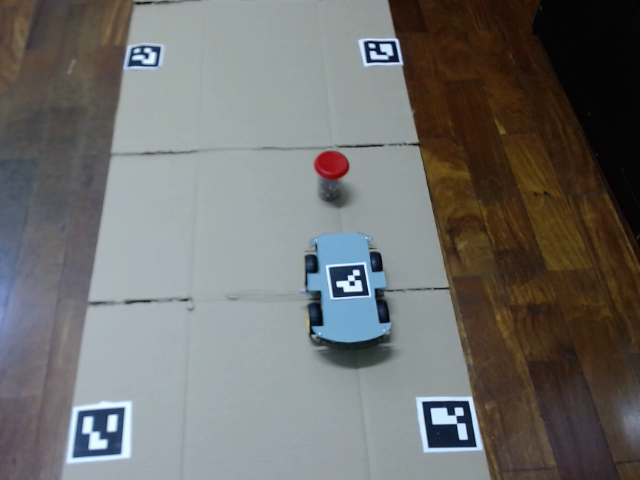
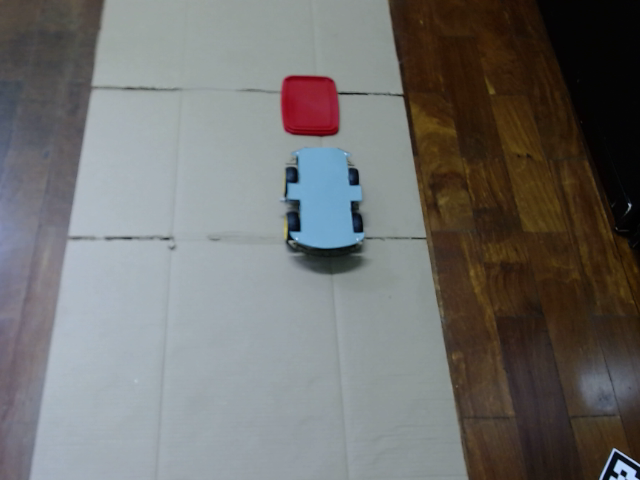
Novos testes

diff --git a/Modules/module_vision.py b/Modules/module_vision.py
@@ -24,29 +24,27 @@ def undistortFrame(frame, mtx, dist, verbose=False):
     return frame_undistorted
 
 
-def robotDetecting(frame):
+def robotDetecting(frame, config_object):
     hsv_frame = cv2.cvtColor(frame, cv2.COLOR_BGR2HSV)
-    low_green = np.array([99, 99, 190])
-    high_green = np.array([130, 255, 255])
+    uh = int(config_object['upperh'])
+    us = int(config_object['uppers'])
+    uv = int(config_object['upperv'])
+    lh = int(config_object['lowerh'])
+    ls = int(config_object['lowers'])
+    lv = int(config_object['lowerv'])
+    low_green = np.array([lh, ls, lv])
+    high_green = np.array([uh, us, uv])
     green_mask = cv2.inRange(hsv_frame, low_green, high_green)
-    img_robot = cv2.bitwise_and(frame, frame, mask=green_mask)
-    img_gray_robot = cv2.cvtColor(img_robot, cv2.COLOR_BGR2GRAY)
+    frame_robot = cv2.bitwise_and(frame, frame, mask=green_mask)
+    frame_gray_robot = cv2.cvtColor(frame_robot, cv2.COLOR_BGR2GRAY)
     # convert image to grayscale image
-    blurred = cv2.GaussianBlur(img_gray_robot, (5, 5), 0)
+    blurred = cv2.GaussianBlur(frame_gray_robot, (5, 5), 0)
     thresh = cv2.threshold(blurred, 60, 255, cv2.THRESH_BINARY)[1]
     # find contours in the thresholded image
     cnts = cv2.findContours(thresh.copy(), cv2.RETR_EXTERNAL, cv2.CHAIN_APPROX_SIMPLE)
     cnts = imutils.grab_contours(cnts)
     cX_robot = 0
     cY_robot = 0
-    robot_position = {
-        'center': (cX_robot, cY_robot),
-        'top': (cX_robot, cY_robot + 10),
-        'button': (cX_robot, cY_robot - 10),
-        'left': (cX_robot - 6, cY_robot),
-        'right': (cX_robot + 6, cY_robot),
-    }
-    # left, right, top , button
     # loop over the contours
     for c in cnts:
         # compute the center of the contour
@@ -55,33 +53,65 @@ def robotDetecting(frame):
             cX_robot = int(M["m10"] / M["m00"])
             cY_robot = int(M["m01"] / M["m00"])
             # draw the contour and center of the shape on the image
-            cv2.drawContours(img_robot, [c], -1, (0, 255, 0), 2)
-            cv2.circle(img_robot, (cX_robot, cY_robot), 8, (255, 255, 255), -1)
-            cv2.putText(img_robot, "Robot", (cX_robot - 20, cY_robot - 20),
+            cv2.drawContours(frame_robot, [c], -1, (0, 255, 0), 2)
+            cv2.circle(frame_robot, (cX_robot, cY_robot), 8, (255, 255, 255), -1)
+            cv2.putText(frame_robot, "Robot", (cX_robot - 20, cY_robot - 20),
                         cv2.FONT_HERSHEY_SIMPLEX, 1, (255, 255, 255), 2)
         # show the image
         # plt.imshow(img_green)
         # plt.show()
-    cv2.imshow("Robot", img_robot)
+    cv2.imshow("Robot", frame_robot)
     print("Robot -> X: ", cX_robot, " Y: ", cY_robot)
+    # left, right, top , button
+    robot_position = {
+        'center': (cX_robot, cY_robot),
+        'top': (cX_robot, cY_robot + 10),
+        'button': (cX_robot, cY_robot - 10),
+        'left': (cX_robot - 6, cY_robot),
+        'right': (cX_robot + 6, cY_robot),
+    }
     return robot_position
 
 
-def obstacleDetecting(frame):
+def obstacleDetecting(frame, config_object):
     hsv_frame = cv2.cvtColor(frame, cv2.COLOR_BGR2HSV)
-    low_red = np.array([150, 150, 60])
-    high_red = np.array([220, 255, 255])
+    uh = int(config_object['upperh'])
+    us = int(config_object['uppers'])
+    uv = int(config_object['upperv'])
+    lh = int(config_object['lowerh'])
+    ls = int(config_object['lowers'])
+    lv = int(config_object['lowerv'])
+    low_red = np.array([lh, ls, lv])
+    high_red = np.array([uh, us, uv])
     red_mask = cv2.inRange(hsv_frame, low_red, high_red)
-    img_obstacle = cv2.bitwise_and(frame, frame, mask=red_mask)
-    img_gray_obstacle = cv2.cvtColor(img_obstacle, cv2.COLOR_BGR2GRAY)
+    frame_obstacle = cv2.bitwise_and(frame, frame, mask=red_mask)
+    frame_gray_obstacle = cv2.cvtColor(frame_obstacle, cv2.COLOR_BGR2GRAY)
     # convert image to grayscale image
-    blurred = cv2.GaussianBlur(img_gray_obstacle, (5, 5), 0)
+    blurred = cv2.GaussianBlur(frame_gray_obstacle, (5, 5), 0)
     thresh = cv2.threshold(blurred, 60, 255, cv2.THRESH_BINARY)[1]
     # find contours in the thresholded image
     cnts = cv2.findContours(thresh.copy(), cv2.RETR_EXTERNAL, cv2.CHAIN_APPROX_SIMPLE)
     cnts = imutils.grab_contours(cnts)
     cX_obstacle = 0
     cY_obstacle = 0
+    # left, right, top , button
+    # loop over the contours
+    for c in cnts:
+        # compute the center of the contour
+        M = cv2.moments(c)
+        if M["m00"] > 0:
+            cX_obstacle = int(M["m10"] / M["m00"])
+            cY_obstacle = int(M["m01"] / M["m00"])
+            # draw the contour and center of the shape on the image
+            cv2.drawContours(frame_obstacle, [c], -1, (0, 255, 0), 2)
+            cv2.circle(frame_obstacle, (cX_obstacle, cY_obstacle), 8, (255, 255, 255), -1)
+            cv2.putText(frame_obstacle, "Obstacle", (cX_obstacle - 20, cY_obstacle - 20),
+                        cv2.FONT_HERSHEY_SIMPLEX, 1, (255, 255, 255), 2)
+        # show the image
+        # plt.imshow(img_green)
+        # plt.show()
+    cv2.imshow("Obstacle", frame_obstacle)
+    print("Obstacle -> X: ", cX_obstacle, " Y: ", cY_obstacle)
     obstacle_position = {
         'center': (cX_obstacle, cY_obstacle),
         'top': (cX_obstacle, cY_obstacle + 5),
@@ -90,23 +120,6 @@ def obstacleDetecting(frame):
         'right': (cX_obstacle + 5, cY_obstacle),
     }
     # left, right, top , button
-    # loop over the contours
-    for c in cnts:
-        # compute the center of the contour
-        M = cv2.moments(c)
-        if M["m00"] > 0:
-            cX_robot = int(M["m10"] / M["m00"])
-            cY_robot = int(M["m01"] / M["m00"])
-            # draw the contour and center of the shape on the image
-            cv2.drawContours(img_obstacle, [c], -1, (0, 255, 0), 2)
-            cv2.circle(img_obstacle, (cX_robot, cY_robot), 8, (255, 255, 255), -1)
-            cv2.putText(img_obstacle, "Obstacle", (cX_robot - 20, cY_robot - 20),
-                        cv2.FONT_HERSHEY_SIMPLEX, 1, (255, 255, 255), 2)
-        # show the image
-        # plt.imshow(img_green)
-        # plt.show()
-    cv2.imshow("Obstacle", img_obstacle)
-    print("Obstacle - X: ", cX_robot, " Y: ", cY_robot)
     return obstacle_position
 
 

diff --git a/main.py b/main.py
@@ -2,14 +2,19 @@
 import socket
 import os
 import time
-from dotenv import load_dotenv
 import cv2
+import math
+import matplotlib.pyplot as plt
+from configparser import ConfigParser
 from Modules import module_calibrate_camera, module_vision, module_calibrate_color
 
-load_dotenv(verbose=True)
-HOST = os.getenv("HOST")
-PORT = int(os.getenv("PORT"))
-DEVICE_NUMBER = int(os.getenv("DEVICE_NUMBER"))
+#Read config.ini file
+config_object = ConfigParser()
+config_object.read("config.ini")
+system = config_object["SYSTEM"]
+HOST = system['HOST']
+PORT = int(system['PORT'])
+DEVICE_NUMBER = int(system['DEVICE_NUMBER'])
 
 
 def init_system():
@@ -36,9 +41,29 @@ def init_system():
             loop = True
             while loop:
                 _, frame = cap.read()
-                robot_position = module_vision.robotDetecting(frame)
-                obstacleDetecting = module_vision.obstacleDetecting(frame);
-                scenery_points = module_vision.arucoDetecting(frame)
+                robot_position = module_vision.robotDetecting(frame, config_object["ROBOT_COLOR"])
+                obstacle_position = module_vision.obstacleDetecting(frame, config_object["OBSTACLE_COLOR"])
+                cv2.line(frame, robot_position['center'], obstacle_position['center'], (0, 255, 0), 2)
+                cv2.imshow("Cenario", frame)
+                #scenery_points = module_vision.arucoDetecting(frame)
+                # Calculando a distância
+                dist_robot_obstacle = math.sqrt((robot_position['center'][0] - obstacle_position['center'][0]) ** 2) +\
+                         math.sqrt((robot_position['center'][1] - obstacle_position['center'][1]) ** 2)
+                print('A distância entre esses dois pontos é de:', dist_robot_obstacle, 'unidades de medida')
+                # x = (robot_position['center'][0], obstacle_position['center'][0])
+                # y = (robot_position['center'][1], obstacle_position['center'][1])
+                # plotting the points
+                # plt.plot(x, y, color='green', linestyle='dashed', linewidth=3, marker='o', markerfacecolor='blue', markersize=12)
+                # plt.plot(x, y)
+                # naming the x axis
+                # plt.xlabel('x - axis')
+                # naming the y axis
+                # plt.ylabel('y - axis')
+                # giving a title to my graph
+                # plt.title('Distance between the robot and the obstacle')
+                # function to show the plot
+                # plt.show()
+
                 #receivedData = newSocket.recv(1024).decode('utf-8')
                 #print(">>Receive Data : ", receivedData)
                 #if receivedData == "exit":
@@ -75,12 +100,17 @@ def print_menuCentral():  ## Your menu design here
     print(24 * "-", "CENTRAL CONTROL SYSTEM", 24 * "-")
     print("1. START CENTRAL CONTROL")
     print("2. CAMERA CALIBRATION")
-    print("3. COLOR CALIBRATION")
-    print("4. EXIT")
+    print("3. ROBOT COLOR CALIBRATION")
+    print("4. OBSTACLE COLOR CALIBRATION")
+    print("5. EXIT")
     print(71 * "-")
 
 
 def main():
+    #dist_robot_obstacle = math.sqrt((308 - 297) ** 2) + math.sqrt((177 - 103) ** 2)
+    #catX = 308 - 297
+    #catY = 177 - 103
+    #print(dist_robot_obstacle)
     while 1:
         print_menuCentral()
         try:
@@ -95,9 +125,12 @@ def main():
             print(">> Starting Camera Calibration")
             module_calibrate_camera.CalibrationCamera()
         if choice == 3:
-            print(">> Starting Color Calibration")
-            module_calibrate_color.CalibrationColor()
-        elif choice == 4:
+            print(">> Starting Robot Color Calibration")
+            module_calibrate_color.CalibrationColor('robot')
+        if choice == 4:
+            print(">> Starting Obstacle Color Calibration")
+            module_calibrate_color.CalibrationColor('obstacle')
+        elif choice == 5:
             print(">> Exit")
             quit()
         else:

diff --git a/Modules/module_calibrate_color.py b/Modules/module_calibrate_color.py
@@ -1,10 +1,11 @@
 import numpy as np
 import cv2 as cv
 import time
+from configparser import ConfigParser
 
 
 class CalibrationColor:
-    def __init__(self):
+    def __init__(self, object):
         cam = cv.VideoCapture(0)
         if cam.isOpened():
             cam.set(cv.CAP_PROP_FRAME_WIDTH, 640)
@@ -12,9 +13,6 @@ class CalibrationColor:
             width = cam.get(cv.CAP_PROP_FRAME_WIDTH)  # float
             height = cam.get(cv.CAP_PROP_FRAME_HEIGHT)  # float
             # print(cv2.CAP_PROP_FRAME_WIDTH, cv2.CAP_PROP_FRAME_HEIGHT) # 3, 4
-            print('width, height:', width, height)
-            fps = cam.get(cv.CAP_PROP_FPS)
-            print('fps:', fps)  # float
         cv.namedWindow("Image")
         while True:
             ret, frame = cam.read()
@@ -34,23 +32,32 @@ class CalibrationColor:
                 print("Image Written!")
                 break
         cam.release()
-        cv.destroyAllWindows()
         img = cv.imread('image.png', cv.IMREAD_COLOR)
         img = cv.medianBlur(img, 5)
         # Convert BGR to HSV
+        config_object = ConfigParser()
+        config_object.read("config.ini")
+        if object == 'robot':
+            robot_color = config_object["ROBOT_COLOR"]
+            uh = int(robot_color['upperh'])
+            us = int(robot_color['uppers'])
+            uv = int(robot_color['upperv'])
+            lh = int(robot_color['lowerh'])
+            ls = int(robot_color['lowers'])
+            lv = int(robot_color['lowerv'])
+        elif object == 'obstacle':
+            obstacle_color = config_object["OBSTACLE_COLOR"]
+            uh = int(obstacle_color['upperh'])
+            us = int(obstacle_color['uppers'])
+            uv = int(obstacle_color['upperv'])
+            lh = int(obstacle_color['lowerh'])
+            ls = int(obstacle_color['lowers'])
+            lv = int(obstacle_color['lowerv'])
         hsv = cv.cvtColor(img, cv.COLOR_BGR2HSV)
-        uh = 130
-        us = 255
-        uv = 255
-        lh = 110
-        ls = 50
-        lv = 50
         lower_hsv = np.array([lh, ls, lv])
         upper_hsv = np.array([uh, us, uv])
-
         # Threshold the HSV image to get only blue colors
         mask = cv.inRange(hsv, lower_hsv, upper_hsv)
-
         window_name = "HSV Calibrator"
         cv.namedWindow(window_name)
 
@@ -103,4 +110,26 @@ class CalibrationColor:
             upper_hsv = np.array([uh, us, uv])
             lower_hsv = np.array([lh, ls, lv])
             time.sleep(.1)
+            if cv.waitKey(1) & 0xFF == ord('q'):
+                break
+        # Get the configparser object
+        if object == 'robot':
+            robot_color = config_object["ROBOT_COLOR"]
+            robot_color['upperh'] = str(uh)
+            robot_color['uppers'] = str(us)
+            robot_color['upperv'] = str(uv)
+            robot_color['lowerh'] = str(lh)
+            robot_color['lowers'] = str(ls)
+            robot_color['lowerv'] = str(lv)
+        elif object == 'obstacle':
+            obstacle_color = config_object["OBSTACLE_COLOR"]
+            obstacle_color['upperh'] = str(uh)
+            obstacle_color['uppers'] = str(us)
+            obstacle_color['upperv'] = str(uv)
+            obstacle_color['lowerh'] = str(lh)
+            obstacle_color['lowers'] = str(ls)
+            obstacle_color['lowerv'] = str(lv)
+        # Write the above sections to config.ini file
+        with open('config.ini', 'w') as conf:
+            config_object.write(conf)
         cv.destroyAllWindows()
